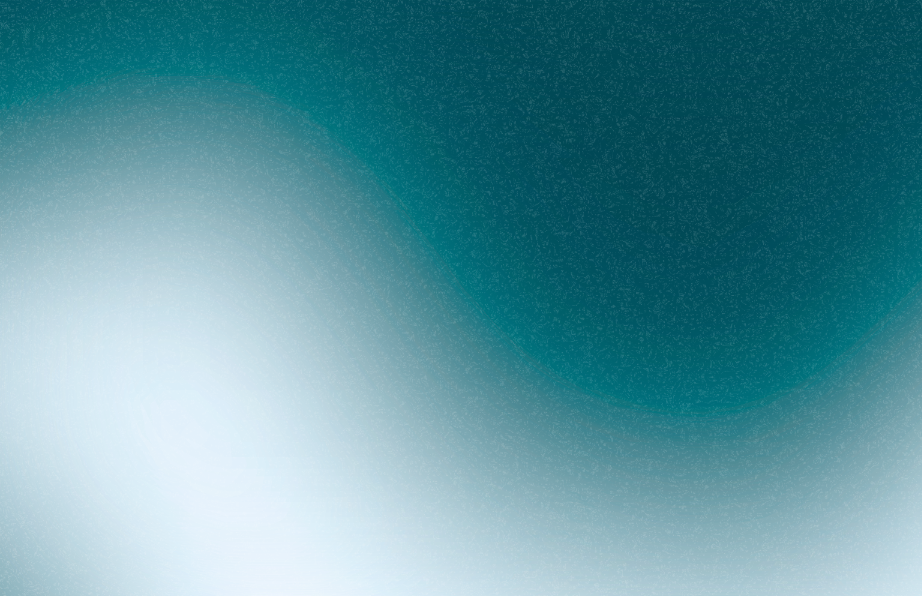
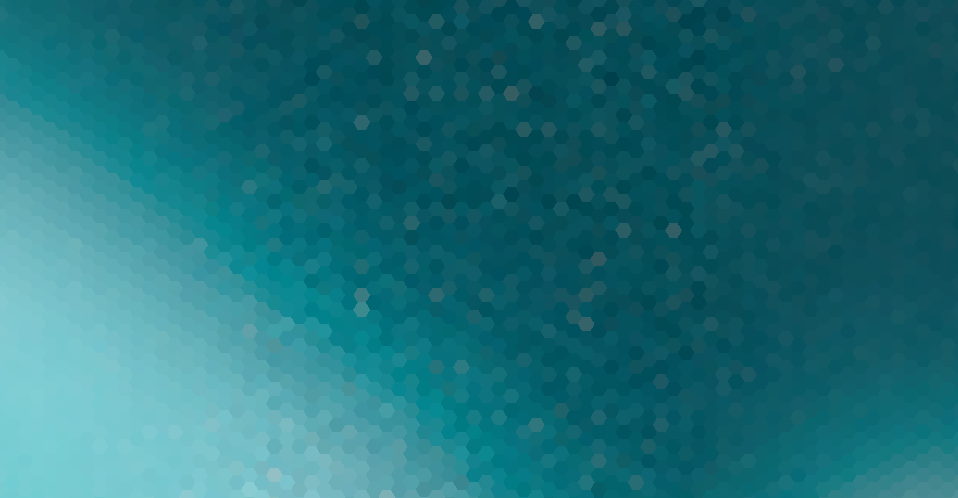
back + clean baneau

diff --git a/src/components/Hero.tsx b/src/components/Hero.tsx
@@ -238,10 +238,12 @@ export default function Hero({ variant = 'default' }: HeroProps) {
 							</h4>
 							<div className="flex flex-wrap gap-2">
 								<SkillBadge name="[Python]" index={21} activeIndex={activeSkillIndex} />
-								<SkillBadge name="[MySQL]" index={22} activeIndex={activeSkillIndex} />
-								<SkillBadge name="[SQLite]" index={23} activeIndex={activeSkillIndex} />
-								<SkillBadge name="[Data analysis]" index={24} activeIndex={activeSkillIndex} />
-								<SkillBadge name="[Algorithms]" index={25} activeIndex={activeSkillIndex} />
+								<SkillBadge name="[Panda]" index={22} activeIndex={activeSkillIndex} />
+								<SkillBadge name="[Numpy]" index={23} activeIndex={activeSkillIndex} />
+								<SkillBadge name="[MySQL]" index={24} activeIndex={activeSkillIndex} />
+								<SkillBadge name="[SQLite]" index={25} activeIndex={activeSkillIndex} />
+								<SkillBadge name="[Data analysis]" index={26} activeIndex={activeSkillIndex} />
+								<SkillBadge name="[Algorithms]" index={27} activeIndex={activeSkillIndex} />
 							</div>
 						</div>
 					</div>

diff --git a/src/App.tsx b/src/App.tsx
@@ -17,7 +17,7 @@ const SiteContent = ({ variant = 'default' }: { variant?: 'default' | 'alt' }) =
 					<span className="w-2.5 h-2.5 rounded-md bg-primary animate-pulse"></span>
 					{variant === 'default' ? 'Portfolio' : 'MyCreative'}
 				</div>
-				<nav className="absolute left-1/2 -translate-x-1/2 flex items-center gap-2 sm:gap-4 md:gap-6 z-10">
+				{/*<nav className="absolute left-1/2 -translate-x-1/2 flex items-center gap-2 sm:gap-4 md:gap-6 z-10">
 					<a
 						href="#contact"
 						onClick={(e) => scrollToSection(e, 'contact')}
@@ -46,7 +46,7 @@ const SiteContent = ({ variant = 'default' }: { variant?: 'default' | 'alt' }) =
 					>
 						Projets
 					</a>
-				</nav>
+				</nav>*/}
 				<div className="w-24 hidden md:block"></div>
 			</header>
 			<main className="flex-1 flex flex-col">
